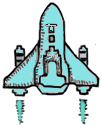
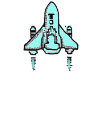
飞机变色+蓝色变小

diff --git a/main.py b/main.py
@@ -497,7 +497,7 @@ def main():
             # 我方飞机颜色转换绘制及子弹数量不同设置
             if me.active:
                 if color_bullet:
-                    if plane_color==0:
+                    if plane_color==0 or plane_color==3:
                         plane_image1=me.image1
                         plane_image2=me.image2
                         # BULLET1_NUM = 6
@@ -520,9 +520,9 @@ def main():
                         # bullet2.append(bullet.Bullet2((me.rect.centerx - 33, me.rect.centery)))
                         # bullet2.append(bullet.Bullet2((me.rect.centerx + 30, me.rect.centery)))
                         for i in bullet1:
-                            i.speed=16
+                            i.speed=20
                         for j in bullet2:
-                            j.speed=16
+                            j.speed=20
                         me.speed=7
 
                     elif plane_color==2:
@@ -541,6 +541,8 @@ def main():
                         for j in bullet2:
                             j.speed=9
                         me.speed=14
+                    color_bullet=False
+
 
                 # 我方飞机绘制(尾气切换)
                 if switch_image:
